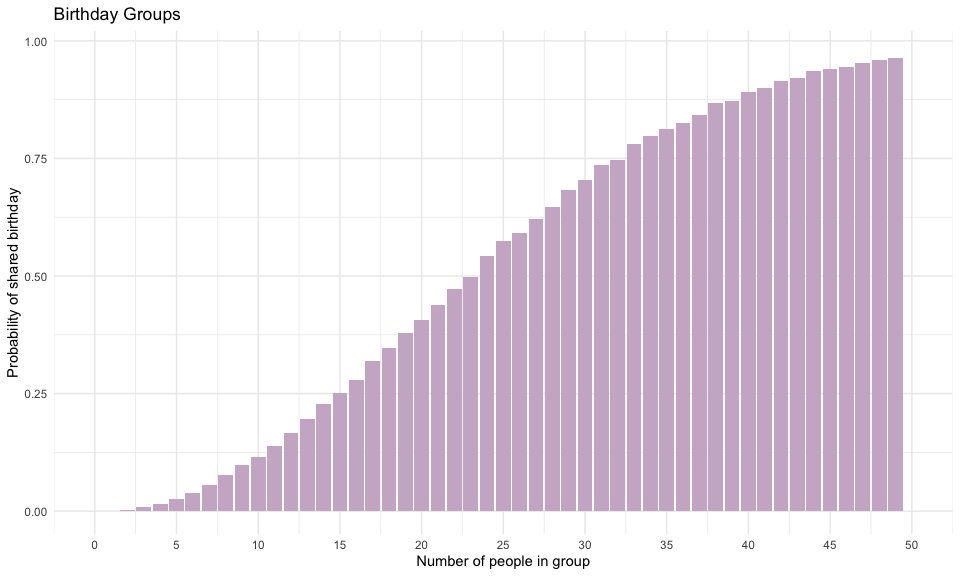
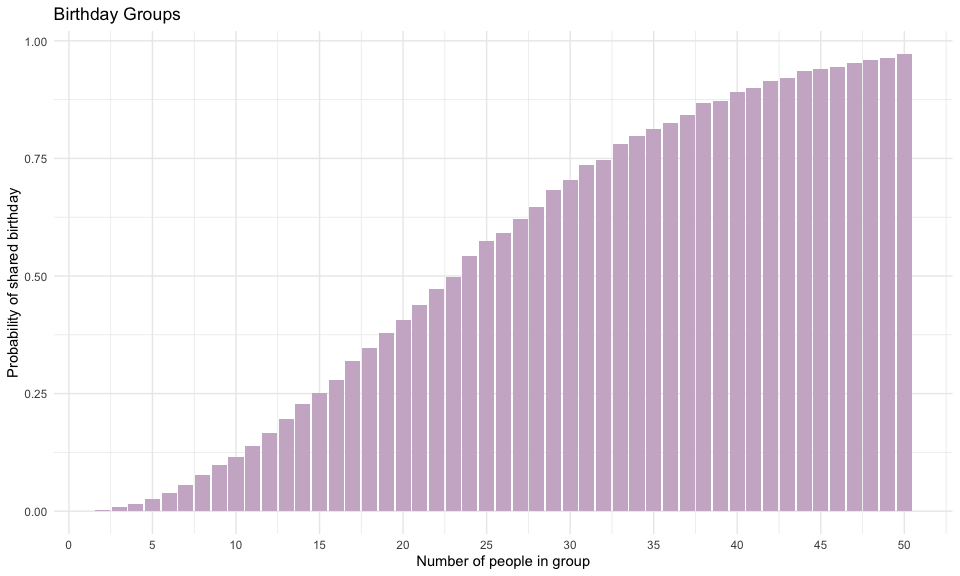
final checks

diff --git a/p8105_hw5_jm5916.md b/p8105_hw5_jm5916.md
@@ -32,16 +32,12 @@ probabilities <- tibble(
 probabilities %>% 
 ggplot(aes(x=group_size, y=probability)) + 
   geom_bar(stat = "identity", fill = "thistle3") +
-  scale_x_continuous(limits = c(0, 50), 
-                     breaks = seq(0, 50, by = 5)) +
+  scale_x_continuous(breaks = seq(0, 50, by = 5)) +
   labs(title = "Birthday Groups",
        x = "Number of people in group",
        y = "Probability of shared birthday") +
   theme_minimal()
 ```
-
-    ## Warning: Removed 1 row containing missing values or values outside the scale range
-    ## (`geom_bar()`).
 
 ![](p8105_hw5_jm5916_files/figure-gfm/birth_sim-1.png)<!-- -->
 
@@ -54,11 +50,15 @@ probability is over 90% at 40 people.
 ### Create function
 
 ``` r
-sim_mean_sd = function(n = 30, mu = 0, sigma = 5) { #fix conditions
+#fix conditions
+n = 30
+sigma = 5
+
+sim_mean_sd = function(mu) {
   
   sample = rnorm(n, mean = mu, sd = sigma) #normal distribution
   
-   results = t.test(sample, mu = 0) %>% 
+   results = t.test(sample, mu = 0) %>% #𝛼=0.05 is default
      broom::tidy() %>% 
      select(estimate, p.value) #inlcude only estimate and p-value
    
